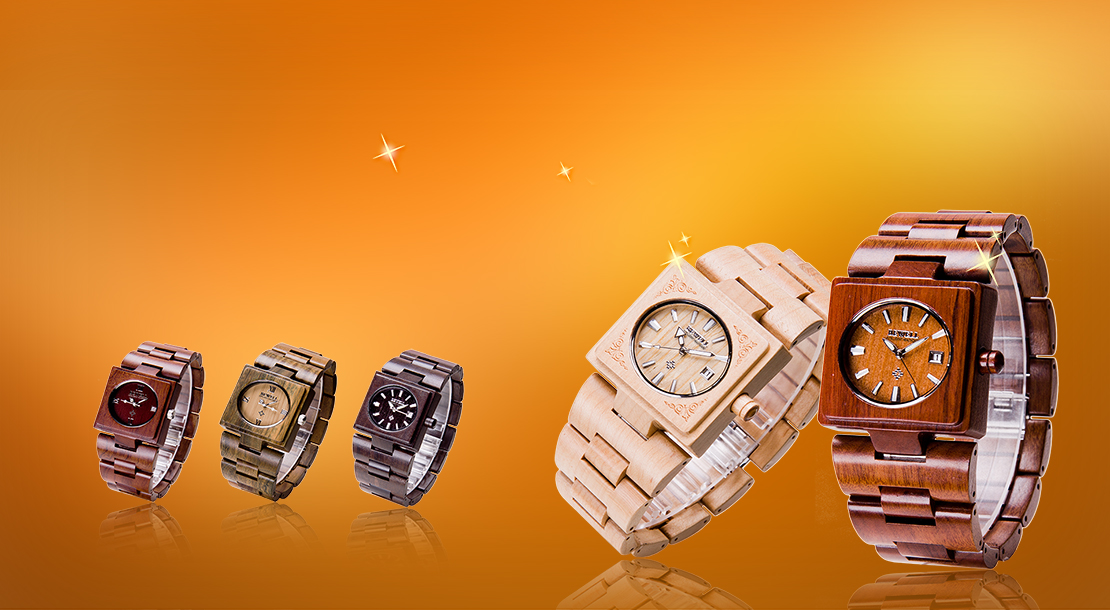
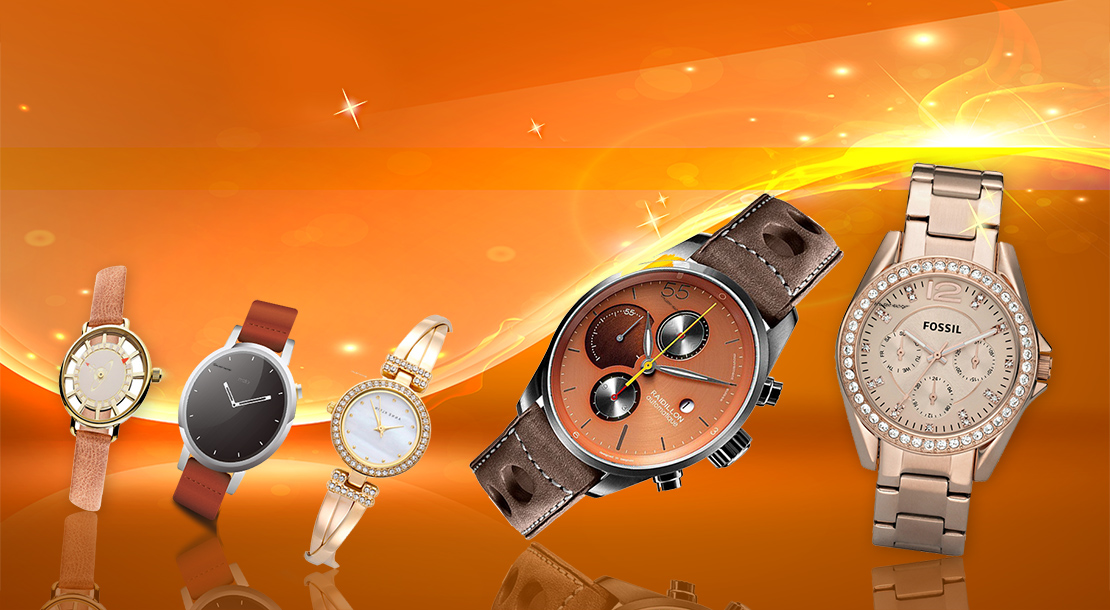
text anim and stupid undrbaner

diff --git a/assets/css/homePage.css b/assets/css/homePage.css
@@ -11,6 +11,10 @@
   src:url('../fonts/noto/NotoSans-Bold.ttf') format('truetype');
 }
 @font-face {
+  font-family: 'NotoSans-ExtraBold';
+  src:url('../fonts/noto/NotoSans-ExtraBold.ttf') format('truetype');
+}
+@font-face {
   font-family: 'NotoSans-Black';
   src:url('../fonts/noto/NotoSans-Black.ttf') format('truetype');
 }
@@ -285,7 +289,7 @@ input[type="text"]::placeholder {
   height: 0vh;
   opacity: 0;
   filter: blur(10px);
-  z-index: 1;
+  z-index: 2;
 }
 
 .iconBox img{
@@ -299,7 +303,7 @@ input[type="text"]::placeholder {
   cursor: pointer;
 }
 
-h2{
+.iconBox h2{
   margin-top: 3vw;
   font-weight: 100;
   font-family: 'NotoSans-Regular';
@@ -356,19 +360,53 @@ main{
   padding: 0.1px;
   /* background: linear-gradient(to bottom, rgba(216,213,228,0.97) 0%, rgba(247,247,247,0.99) 60%, rgba(247,247,247,1) 100%); */
 }
-main h1{
+.mainCarouselContainer h1{
   color: white;
   font-family: 'NotoSans-Bold';
   font-size: 2.9282vw;
   position: relative;
   margin-top: 6.149vw;
   margin-left: 2.342vw;
+  display: inline;
 }
-main h1 span{
+.mainCarouselContainer h2{
+  display: inline;
+  color: white;
   font-size: 1.7569vw;
   font-family: 'NotoSans-regular';
   font-weight: 100;
 }
+/* main h1 span{
+  font-size: 1.7569vw;
+  font-family: 'NotoSans-regular';
+  font-weight: 100;
+} */
+/* test */
+.center{
+  position: absolute;
+    /* border: 5px solid red; */
+    width: 100%;
+    height: 10vw;
+    padding-top: 5vw;
+    opacity: 0;
+}
+
+.char{
+    animation: an 1s ease-out 1 both;
+    display: inline-block;
+}
+
+@keyframes an{
+    from{
+        opacity: 0;
+        transform: perspective(500px) translate3d(-35px, -40px, -150px) rotate3d(1, -1, 0, 35deg);
+    }
+    to{
+        opacity: 1;
+        transform: perspective(500px) translate3d(0, 0, 0);
+    }
+}
+/* test end*/
 
 .container{
   padding-top: 1.1713vw;
@@ -722,7 +760,7 @@ main h1 span{
 
 .nextButton {
   transition: 0.3s;
-    z-index: 3;
+    z-index: 1;
     position: absolute;
     height: 3vw;
     width: 3vw;
@@ -743,8 +781,131 @@ main h1 span{
   opacity: 1;
   cursor: pointer;
 }
+.leftNextButton{
+  right: auto;
+  left: 0;
+}
+/* truck and other icons */
+.flexIcons{
+  margin-top: 1.4648vw;
+  display: flex;
+  justify-content: center;
+}
+.threeIcons{
+  margin-left: 5.3vw;
+  margin-right: 5.3vw;
+}
+.threeIcons p{
+  font-size: 0.8789vw;
+  text-align: center;
+  font-family: 'NotoSans-Light';
+}
+/* whatIsLorem */
+.whatIsLorem{
+  padding: 0.1px;
+  margin-top: 5.273vw;
+  height: 15.234vw;
+  background-color: rgb(243,243,243);
+}
+.whatIsLorem h2{
+  text-align: center;
+  font-size: 2.3437vw;
+  font-family: 'NotoSans-Regular';
+  color: black;
+  margin-top:2.685vw;
+  margin-bottom: 0.83vw;
+}
+.whatIsLorem p{
+  margin: 0;
+  text-align: center;
+  font-size: 1.1718vw;
+  font-family: 'NotoSans-Light';
+}
 
+/* newOrUsed */
+.newOrUsed{
+  height: 23.486vw;
+  background: linear-gradient(to right, rgba(55,107,253,1) 0%, rgba(55,107,253,1) 15%, rgba(255,134,184,1) 85%, rgba(255,134,184,1) 100%);
+  /* overflow: hidden; */
+  position: relative;
+}
 
+.lanternBox{
+  position: absolute;
+  top: 0;
+  left: 0;
+  width: 100%;
+  height: 100%;
+  overflow: hidden;
+}
+.lantern{
+  width: 14.8437vw;
+  height: 25.3417vw;
+  left: 41.0156vw;
+  position: absolute;
+  top: -6vw;
+  animation-name: lantern;
+  animation-duration: 15s;
+  animation-iteration-count: infinite;
+  animation-direction: alternate;
+}
+@keyframes lantern {
+  0%{
+    top: -6vw;
+  }
+  100%{
+    top: 0vw;
+  }
+}
+
+.fruits {
+  width: 36.035vw;
+  height: 26.123vw;
+  position: absolute;
+  top: 4vw;
+  left: 0;
+}
+.samsung{
+  width: 25.244vw;
+  height: 29.296vw;
+  position: absolute;
+  left: 47.6vw;
+  top: -5vw;
+}
+.powder {
+  width: 12.695vw;
+  height: 15.136vw;
+  position: absolute;
+  right: 14vw;
+  bottom: 0;
+}
+.liquidLipstick {
+  width: 27.148vw;
+  height: 36.2792vw;
+  position: absolute;
+  top: -3vw;
+  right: 0vw;
+}
+.bg {
+  height: 27vw;
+  width: 56vw;
+  position: absolute;
+  right: 0;
+  top: -1vw;
+}
+.newOrUsed h2{
+  position: absolute;
+  margin-left: 4.15vw;
+  margin-top: 2.73vw;
+  line-height: 1;
+  font-size: 2.9296vw;
+  font-family: 'NotoSans-ExtraBold';
+  color: white;
+}
+.newOrUsed h2 span{
+  font-family: 'NotoSans-Light';
+  font-size: 1.757vw;
+}
 /* MOBILE */
 /* MOBILE */
 /* MOBILE */

diff --git a/homePage.html b/homePage.html
@@ -224,7 +224,7 @@
             </div>
           </div>
 
-          <div class="nextButton">
+          <div class="nextButton leftNextButton">
             <p>Next</p>
           </div>
 
@@ -234,8 +234,16 @@
           <img class="mainCarImage" src="assets\images\homePage\0.jpg" alt="">
           <img class="mainCarImage" src="assets\images\homePage\1.jpg" alt="">
           <!-- <div class="flashDiv"></div> -->
-          <h1>Pishe <span>is where sellers create</span> <br>
-          instant online stores </h1>
+          <!-- <h1>Pishe <span>is where sellers create</span> <br>
+          instant online stores </h1> -->
+            <!-- test -->
+            <div class="center">
+              <!-- <p id="text">Lorem ipsum dolor sit amet consectetur adipisicing elit. Cupiditate incidunt praesentium, rerum voluptatem in reiciendis officia harum repudiandae tempore suscipit ex ea, adipisci ab porro.</p> -->
+              <h1 id="text">Pishe</h1>
+              <h2 id="textOne">is where sellers create </h2> <br>
+              <h1 id="textTwo"> instant online stores </h1>
+            </div>
+            <!-- test -->
           <div class="leftCarArrowBox"> <p><</p> </div>
           <div class="rightCarArrowBox"> <p>></p> </div>
         </div>
@@ -400,9 +408,40 @@
 
       </div>
 
-      <div class="">
-
+      <div class="flexIcons">
+        <div class="threeIcons">
+          <img src="assets\images\homePage\sale.jpg" alt="">
+          <p>Low Prices</p>
+        </div>
+        <div class="threeIcons">
+          <img src="assets\images\homePage\purchase.jpg" alt="">
+          <p>Low Prices</p>
+        </div>
+        <div class="threeIcons">
+          <img src="assets\images\homePage\truckIcon.jpg" alt="">
+          <p>Low Prices</p>
+        </div>
       </div>
+
+      <section class="whatIsLorem">
+        <h2>What is Lorem Ipsum?</h2>
+        <p>Lorem Ipsum is simply dummy text of the printing and typesetting industry. <br>
+           Lorem Ipsum has been the industry's standard dummy text ever since the 1500s, <br>
+           when an unknown printer took a galley of type and scrambled it to make a type specimen book.</p>
+      </section>
+
+      <section class="newOrUsed">
+        <div class="lanternBox">
+          <img class="lantern" src="assets\images\homePage\newOrUsed\lantern.png" alt="">
+        </div>
+        <img class="bg" src="assets\images\homePage\newOrUsed\bg.png" alt="">
+        <img class="fruits" src="assets\images\homePage\newOrUsed\fruits.png" alt="">
+        <img class="samsung" src="assets\images\homePage\newOrUsed\samsung.png" alt="">
+        <img class="powder" src="assets\images\homePage\newOrUsed\powder.png" alt="">
+        <img class="liquidLipstick" src="assets\images\homePage\newOrUsed\liquidLipstick.png" alt="">
+        <h2>NEW OR USED <br>
+        <span>you can sell anything on Pishe</span></h2>
+      </section>
 
     </main>
 

diff --git a/assets/js/homePage.js b/assets/js/homePage.js
@@ -198,11 +198,11 @@ rightCarArrowBox[0].addEventListener('click',()=>{
 var mainSlidMod = 100;
 function mainSlidFun() {
   if (mainSlidMod % 2 === 0) {
-    mainCarImage[1].src = 'assets/images/homePage/'+ mainSlidMod%9 +'.jpg';
+    mainCarImage[1].src = 'assets/images/homePage/'+ mainSlidMod%11 +'.jpg';
     mainCarImage[0].style.opacity = '0';
     mainCarImage[1].style.opacity = '1';
   }else{
-    mainCarImage[0].src = 'assets/images/homePage/'+ mainSlidMod%9 +'.jpg';
+    mainCarImage[0].src = 'assets/images/homePage/'+ mainSlidMod%11 +'.jpg';
     mainCarImage[0].style.opacity = '1';
     mainCarImage[1].style.opacity = '0';
   }
@@ -219,3 +219,65 @@ function mainSlidBackBut() {
 setInterval(function () {
   mainSlidFun();
 }, 3000);
+
+// test
+// test
+// test
+function textAnimMainSlider() {
+  var text = document.getElementById('text');
+  var newDom = '';
+  var animationDelay = 100;
+
+  for(let i = 0; i < text.innerText.length; i++)
+  {
+      newDom += '<span class="char">' + (text.innerText[i] == ' ' ? '&nbsp;' : text.innerText[i])+ '</span>';
+  }
+
+  text.innerHTML = newDom;
+  var length = text.children.length;
+
+  for(let i = 0; i < length; i++)
+  {
+      text.children[i].style['animation-delay'] = animationDelay * i + 'ms';
+  }
+
+  // test 1
+  var textOne = document.getElementById('textOne');
+  var newDom = '';
+  var animationDelay = 40;
+
+  for(let i = 0; i < textOne.innerText.length; i++)
+  {
+      newDom += '<span class="char">' + (textOne.innerText[i] == ' ' ? '&nbsp;' : textOne.innerText[i])+ '</span>';
+  }
+
+  textOne.innerHTML = newDom;
+  var length = textOne.children.length;
+
+  for(let i = 0; i < length; i++)
+  {
+      textOne.children[i].style['animation-delay'] = animationDelay * i + 'ms';
+  }
+
+  // testTwo
+  var textTwo = document.getElementById('textTwo');
+  var newDom = '';
+  var animationDelay = 35;
+
+  for(let i = 0; i < textTwo.innerText.length; i++)
+  {
+      newDom += '<span class="char">' + (textTwo.innerText[i] == ' ' ? '&nbsp;' : textTwo.innerText[i])+ '</span>';
+  }
+
+  textTwo.innerHTML = newDom;
+  var length = textTwo.children.length;
+
+  for(let i = 0; i < length; i++)
+  {
+      textTwo.children[i].style['animation-delay'] = animationDelay * i + 'ms';
+  }
+
+  document.getElementsByClassName('center')[0].style.opacity ='1';
+}
+
+window.onload = textAnimMainSlider();
